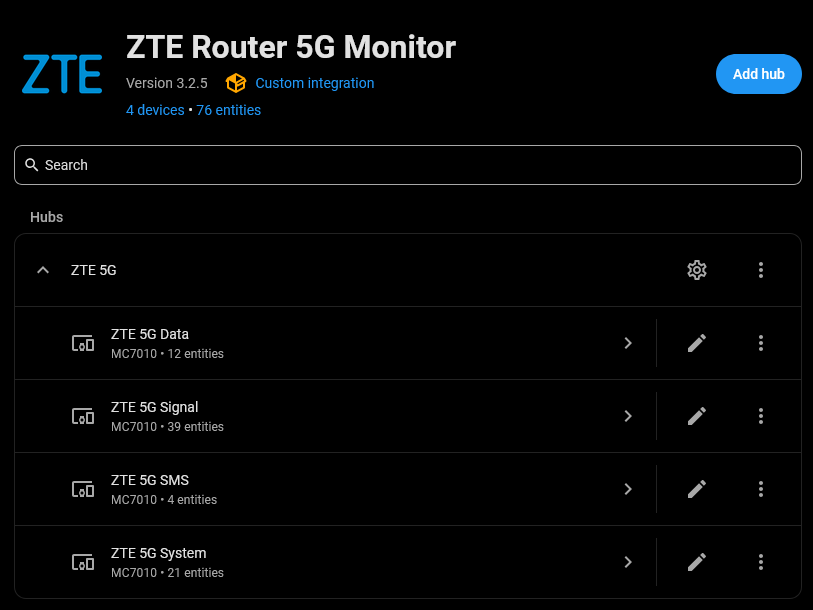
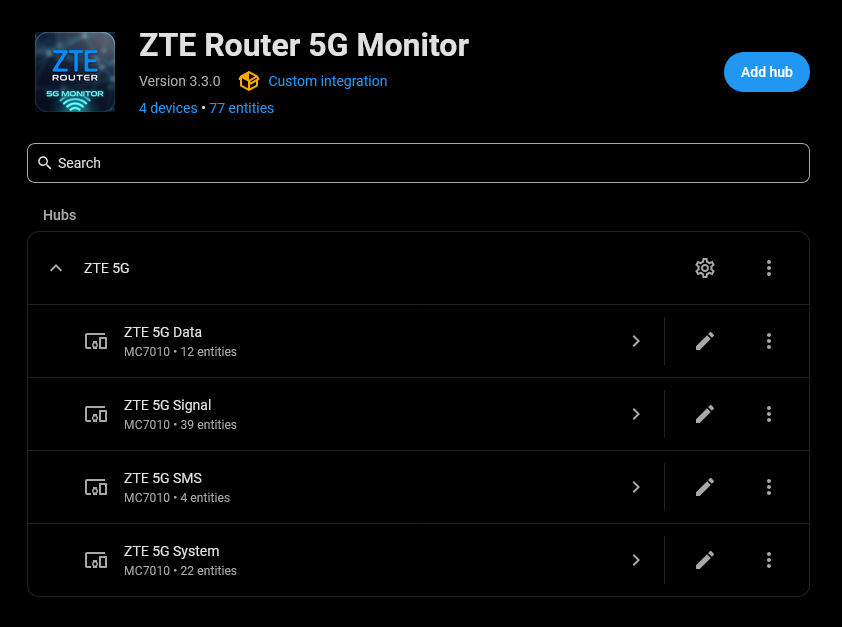
v3.3.0-dev8 Docs Screenshots

diff --git a/README.md b/README.md
@@ -27,6 +27,7 @@ A Home Assistant integration for **ZTE 5G CPE Routers** providing Signal Stats, 
   - [✅ Features](#-features)
   - [🔍 What You Get](#-what-you-get)
   - [📸 Screenshots](#-screenshots)
+  - [🔘 Controls \& Settings](#-controls--settings)
   - [💡 Example Automations](#-example-automations)
   - [📥 Installation](#-installation)
   - [🔧 Configuration](#-configuration)
@@ -284,6 +285,35 @@ The following sensors have **no LTS** to avoid unnecessary database growth:
 ### Setup
 
 ![Setup](.github/images/zte_5g_setup_info.png)
+
+## 🔘 Controls & Settings
+
+Rather than hiding settings in configuration menus, several configuration parameters are exposed directly as Home Assistant control entities, allowing you to monitor and control them from dashboards or automations:
+
+### 📡 APN & Network Settings (Signal Device)
+
+- **APN Profile** (`select.zte_5g_signal_apn_profile`): Switch the active default APN profile dynamically.
+- **APN Selection Mode** (`select.zte_5g_signal_apn_selection_mode`): Toggle between `auto` and `manual` APN mode.
+- **Network Mode Selection** (`select.zte_5g_signal_network_mode_selection`): Select the preferred connection type: `4G_AND_5G` (Auto), `LTE_AND_5G` (5G NSA), `Only_5G` (5G SA), or `Only_LTE` (4G Only).
+- **Disabled by Default**: These are disabled by default but can be enabled
+  - **LTE Band Lock Mask** (`sensor.zte_5g_signal_lte_band_lock_mask`): Displays the current hex mask configuration locking the active LTE bands.
+
+### 🔧 Router Administration & Polling (System Device)
+
+- **Pause Polling** (`switch.zte_5g_system_pause_polling`): Halt all polling when you need exclusive access to the router's web UI.
+- **Polling Interval** (`number.zte_5g_system_polling_interval`): Adjust the scan interval slider (30s to 1 hour, default `180` seconds).
+- **Refresh Now** (`button.zte_5g_system_refresh_now`): Trigger an immediate refresh (data fetch).
+- **Disabled by Default**: These are disabled by default but can be enabled
+  - **ODU LED Switch** (`switch.zte_5g_system_odu_led_switch`): Turn the physical status LEDs of the outdoor unit on or off.
+  - **Reboot Schedule** (`binary_sensor.zte_5g_system_reboot_schedule`): Indicates whether a scheduled reboot window is configured and active.
+  - **UPnP Enabled** / **SIP ALG Enabled** (`binary_sensor.zte_5g_system_upnp_enabled` / `binary_sensor.zte_5g_system_sip_alg_enabled`): Monitor firewall settings status.
+  - **Time Server (SNTP)** (`sensor.zte_5g_system_time_server_sntp`): Displays the active server used by the router for time synchronization.
+
+### 📈 Billing & Data Controls (Data Device)
+
+- **Disabled by Default**: These are disabled by default but can be enabled
+  - **Data Limit Switch** (`switch.zte_5g_data_data_limit_switch`): Enable/disable the router's data limit settings.
+  - **Data Volume Alert** (`sensor.zte_5g_data_data_volume_alert`): Displays the alarm warning percentage configured on the router (e.g., 90%).
 
 ## 💡 Example Automations
 
@@ -973,35 +1003,6 @@ After installation, open **Settings > Devices & Services > ZTE Router 5G Monitor
 | Host     | Router IP address (change if the router's LAN IP changes). |
 | Username | Router login username.                                     |
 | Password | Admin password (update if changed on the router).          |
-
-### 🔘 Runtime Controls & Settings (Entities)
-
-Rather than hiding settings in configuration menus, several configuration parameters are exposed directly as Home Assistant control entities, allowing you to monitor and control them from dashboards or automations:
-
-#### 📡 APN & Network Settings (Signal Device)
-
-- **APN Profile** (`select.zte_5g_signal_apn_profile`): Switch the active default APN profile dynamically.
-- **APN Selection Mode** (`select.zte_5g_signal_apn_selection_mode`): Toggle between `auto` and `manual` APN mode.
-- **Network Mode Selection** (`select.zte_5g_signal_network_mode_selection`): Select the preferred connection type: `4G_AND_5G` (Auto), `LTE_AND_5G` (5G NSA), `Only_5G` (5G SA), or `Only_LTE` (4G Only).
-- **Disabled by Default**: These are disabled by default but can be enabled
-  - **LTE Band Lock Mask** (`sensor.zte_5g_signal_lte_band_lock_mask`): Displays the current hex mask configuration locking the active LTE bands.
-
-#### 🔧 Router Administration & Polling (System Device)
-
-- **Pause Polling** (`switch.zte_5g_system_pause_polling`): Halt all polling when you need exclusive access to the router's web UI.
-- **Polling Interval** (`number.zte_5g_system_polling_interval`): Adjust the scan interval slider (30s to 1 hour, default `180` seconds).
-- **Refresh Now** (`button.zte_5g_system_refresh_now`): Trigger an immediate refresh (data fetch).
-- **Disabled by Default**: These are disabled by default but can be enabled
-  - **ODU LED Switch** (`switch.zte_5g_system_odu_led_switch`): Turn the physical status LEDs of the outdoor unit on or off.
-  - **Reboot Schedule** (`binary_sensor.zte_5g_system_reboot_schedule`): Indicates whether a scheduled reboot window is configured and active.
-  - **UPnP Enabled** / **SIP ALG Enabled** (`binary_sensor.zte_5g_system_upnp_enabled` / `binary_sensor.zte_5g_system_sip_alg_enabled`): Monitor firewall settings status.
-  - **Time Server (SNTP)** (`sensor.zte_5g_system_time_server_sntp`): Displays the active server used by the router for time synchronization.
-
-#### 📈 Billing & Data Controls (Data Device)
-
-- **Disabled by Default**: These are disabled by default but can be enabled
-  - **Data Limit Switch** (`switch.zte_5g_data_data_limit_switch`): Enable/disable the router's data limit settings.
-  - **Data Volume Alert** (`sensor.zte_5g_data_data_volume_alert`): Displays the alarm warning percentage configured on the router (e.g., 90%).
 
 ## 🔩 Under the Hood - Technical Architecture
 
